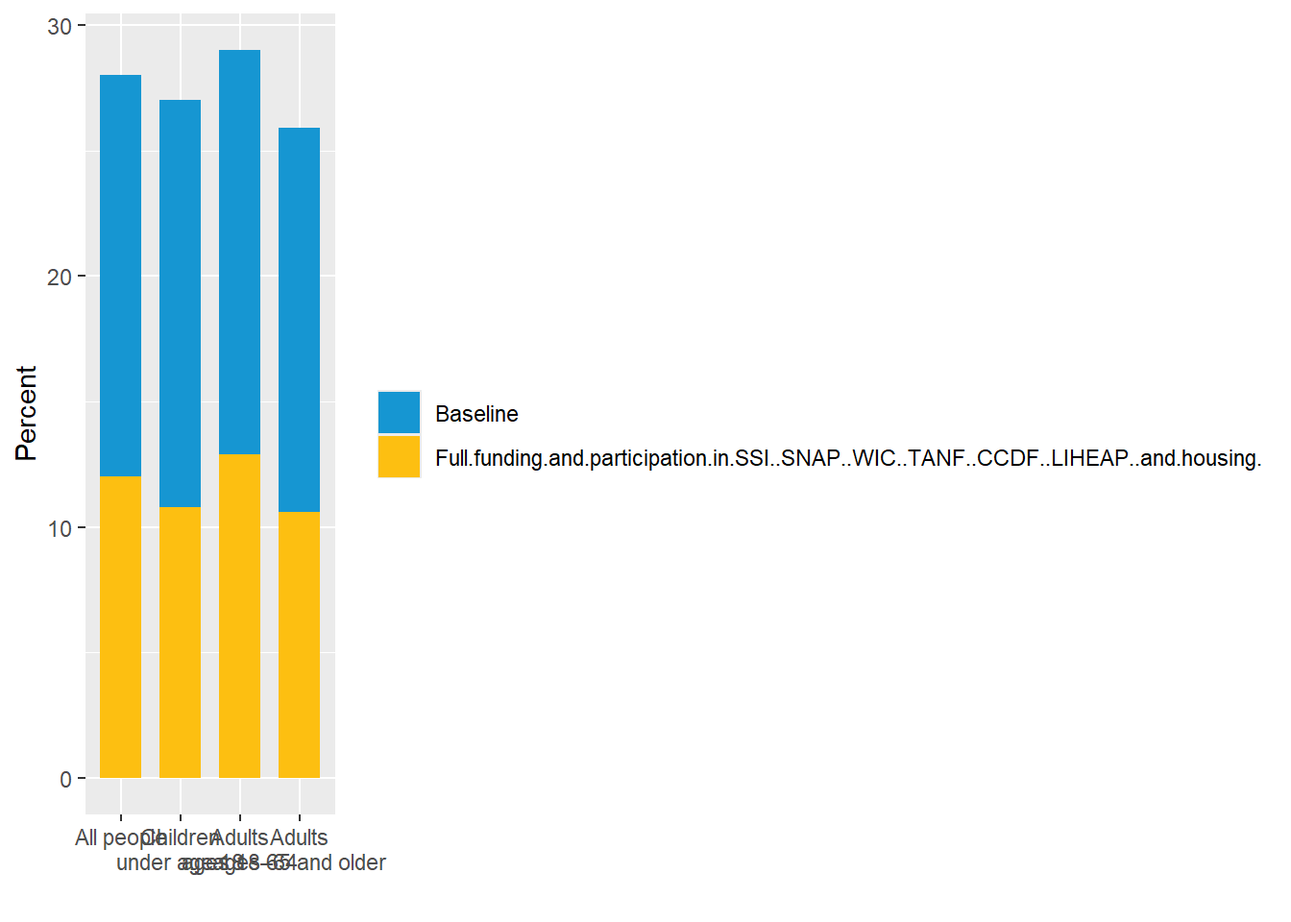
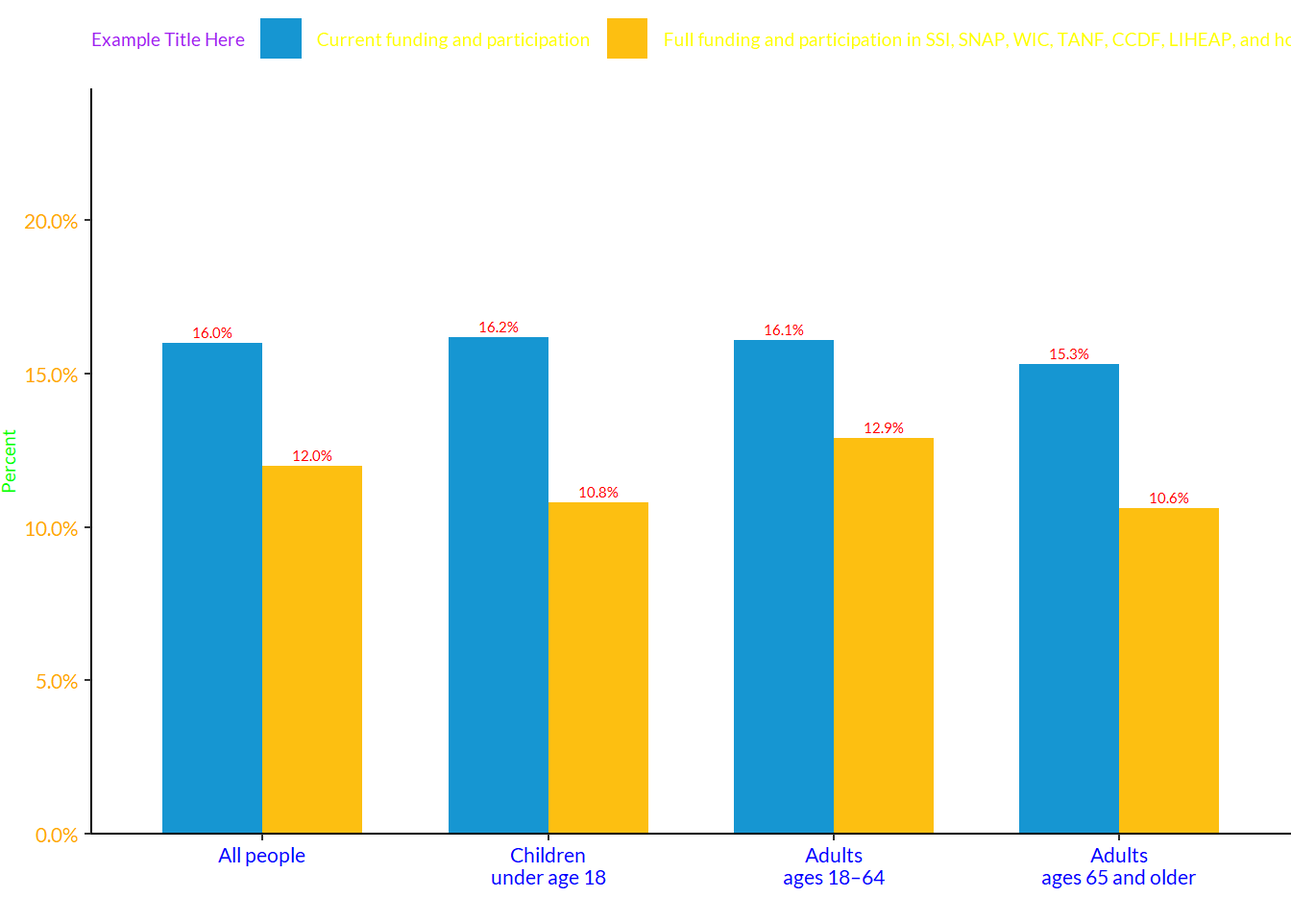
Built site for gh-pages

diff --git a/editing-figures-in-r.html b/editing-figures-in-r.html
@@ -200,12 +200,6 @@ background-size: cover;
 </li>
         <li class="sidebar-item">
   <div class="sidebar-item-container"> 
-  <a href="./editing-in-r-markdown.html" class="sidebar-item-text sidebar-link">
- <span class="menu-text">Editing in R Markdown</span></a>
-  </div>
-</li>
-        <li class="sidebar-item">
-  <div class="sidebar-item-container"> 
   <a href="./editing-zotero-citations-in-r.html" class="sidebar-item-text sidebar-link">
  <span class="menu-text">Editing Zotero Citations in R</span></a>
   </div>
@@ -231,7 +225,6 @@ background-size: cover;
   <li><a href="#opening-the-r-project" id="toc-opening-the-r-project" class="nav-link" data-scroll-target="#opening-the-r-project">Opening the R Project</a></li>
   <li><a href="#what-to-look-for-in-the-file" id="toc-what-to-look-for-in-the-file" class="nav-link" data-scroll-target="#what-to-look-for-in-the-file">What to Look for in the File</a></li>
   <li><a href="#common-changes-to-figures" id="toc-common-changes-to-figures" class="nav-link" data-scroll-target="#common-changes-to-figures">Common Changes to Figures</a></li>
-  <li><a href="#providing-the-researchers-with-an-updated-figure" id="toc-providing-the-researchers-with-an-updated-figure" class="nav-link" data-scroll-target="#providing-the-researchers-with-an-updated-figure">Providing the Researchers with an Updated Figure</a></li>
   </ul></li>
   </ul>
 </nav>
@@ -245,7 +238,7 @@ background-size: cover;
 
 <section id="editing-figures-in-r" class="level1">
 <h1>Editing Figures in R</h1>
-<p>Editing figures in R for Urban style can be done quite easily if you know what to look for. The first step is to ask the researcher for the r files associated with the project in a folder (usually an r project folder). The preferred method is opening a new branch on a GitHub repo. For more information on how to make a new branch on an existing repo, see the <a href="./using-github.html">Using GitHub</a> page. If the researcher only has a local folder saved, you can ask them to send you the zipped project folder via email.</p>
+<p>Editing figures in R for Urban style can be done quite easily if you know what to look for. The first step is to ask the researcher for the R files associated with the project in a folder (usually an R project folder). The preferred method is opening a new branch on a GitHub repo. For more information on how to make a new branch on an existing repo, see the <a href="./using-github.html">Using GitHub</a> page. If the researcher only has a local folder saved, you can ask them to send you the zipped project folder via email.</p>
 <p>Before you begin, make sure the researcher has used the <a href="https://urbaninstitute.github.io/urbnthemes/">urbnthemes ggplot2 package</a> for generating the figures.</p>
 <section id="opening-the-r-project" class="level3">
 <h3 class="anchored" data-anchor-id="opening-the-r-project">Opening the R Project</h3>
@@ -307,7 +300,7 @@ Figure&nbsp;1
 <span id="cb2-2"><a href="#cb2-2"></a>  <span class="fu">geom_bar</span>(<span class="at">stat =</span> <span class="st">"identity"</span>, <span class="at">position =</span> <span class="fu">position_dodge</span>()) <span class="sc">+</span></span>
 <span id="cb2-3"><a href="#cb2-3"></a>  <span class="fu">labs</span>(<span class="at">y =</span> <span class="st">"Percent"</span>, <span class="at">x =</span> <span class="st">""</span>, <span class="at">fill =</span> <span class="st">""</span>) <span class="sc">+</span></span>
 <span id="cb2-4"><a href="#cb2-4"></a>  <span class="fu">scale_fill_discrete</span>(<span class="at">labels =</span> <span class="fu">c</span>(<span class="st">'Current funding and participation'</span>, </span>
-<span id="cb2-5"><a href="#cb2-5"></a>                                 <span class="st">'Full funding and participation in SSI, SNAP, WIC, TANF, CCDF, LIHEAP, and housing'</span>)) <span class="sc">+</span></span>
+<span id="cb2-5"><a href="#cb2-5"></a>  <span class="st">'Full funding and participation in SSI, SNAP, WIC, TANF, CCDF, LIHEAP, and housing'</span>)) <span class="sc">+</span></span>
 <span id="cb2-6"><a href="#cb2-6"></a>  <span class="fu">geom_text</span>(<span class="fu">aes</span>(<span class="at">label =</span> <span class="fu">decimal_to_percentage</span>(Value)), </span>
 <span id="cb2-7"><a href="#cb2-7"></a>            <span class="at">vjust =</span> <span class="sc">-</span><span class="fl">0.5</span>, </span>
 <span id="cb2-8"><a href="#cb2-8"></a>            <span class="at">position =</span> <span class="fu">position_dodge2</span>(<span class="at">width =</span> <span class="fl">0.7</span>, <span class="at">padding =</span> <span class="fl">0.5</span>),</span>
@@ -349,17 +342,13 @@ Figure&nbsp;1
 <p>Below you will find common changes for figures and how to make those changes.</p>
 <section id="capitalization-and-hypenation-changes-in-data-labels-legend-text-and-axis-text" class="level4">
 <h4 class="anchored" data-anchor-id="capitalization-and-hypenation-changes-in-data-labels-legend-text-and-axis-text">Capitalization and hypenation changes in data labels, legend text, and axis text</h4>
-<p>To change capitalization, hyphenation, or other text changes in legend and axis text, look at the example code again, this time with the proper text highlighted.</p>
-<div class="tabset-margin-container"></div><div class="panel-tabset">
-<ul class="nav nav-tabs" role="tablist"><li class="nav-item" role="presentation"><a class="nav-link active" id="tabset-3-1-tab" data-bs-toggle="tab" data-bs-target="#tabset-3-1" role="tab" aria-controls="tabset-3-1" aria-selected="true">Legend text</a></li><li class="nav-item" role="presentation"><a class="nav-link" id="tabset-3-2-tab" data-bs-toggle="tab" data-bs-target="#tabset-3-2" role="tab" aria-controls="tabset-3-2" aria-selected="false">Figure 2</a></li></ul>
-<div class="tab-content">
-<div id="tabset-3-1" class="tab-pane active" role="tabpanel" aria-labelledby="tabset-3-1-tab">
-<div class="cell" data-source-line-numbers="2,6-7">
-<div class="sourceCode cell-code" id="cb4" data-source-line-numbers="2,6-7" data-code-line-numbers="2,6-7"><pre class="sourceCode numberSource r code-overflow-scroll number-lines code-with-copy"><code class="sourceCode r"><span id="cb4-1"><a href="#cb4-1"></a><span class="fu">ggplot</span>(df_fig2_long, <span class="fu">aes</span>(<span class="at">x =</span> Category, <span class="at">y =</span> Value, <span class="at">fill =</span> Series)) <span class="sc">+</span></span>
+<p>To change capitalization, hyphenation, or other text changes in legend and axis text, look at the example code again, this time with the relevant text highlighted. If some of the chart text gets pulled in from the dataset itself, ask the researchers to make the required changes.</p>
+<div class="cell" data-source-line-numbers="3-5">
+<div class="sourceCode cell-code" id="cb4" data-source-line-numbers="3-5" data-code-line-numbers="3-5"><pre class="sourceCode numberSource r code-overflow-scroll number-lines code-with-copy"><code class="sourceCode r"><span id="cb4-1"><a href="#cb4-1"></a><span class="fu">ggplot</span>(df_fig2_long, <span class="fu">aes</span>(<span class="at">x =</span> Category, <span class="at">y =</span> Value, <span class="at">fill =</span> Series)) <span class="sc">+</span></span>
 <span id="cb4-2"><a href="#cb4-2"></a>  <span class="fu">geom_bar</span>(<span class="at">stat =</span> <span class="st">"identity"</span>, <span class="at">position =</span> <span class="fu">position_dodge</span>()) <span class="sc">+</span></span>
 <span id="cb4-3"><a href="#cb4-3"></a>  <span class="fu">labs</span>(<span class="at">y =</span> <span class="st">"Percent"</span>, <span class="at">x =</span> <span class="st">""</span>, <span class="at">fill =</span> <span class="st">""</span>) <span class="sc">+</span></span>
 <span id="cb4-4"><a href="#cb4-4"></a>  <span class="fu">scale_fill_discrete</span>(<span class="at">labels =</span> <span class="fu">c</span>(<span class="st">'Current funding and participation'</span>, </span>
-<span id="cb4-5"><a href="#cb4-5"></a>                                 <span class="st">'Full funding and participation in SSI, SNAP, WIC, TANF, CCDF, LIHEAP, and housing'</span>)) <span class="sc">+</span></span>
+<span id="cb4-5"><a href="#cb4-5"></a>  <span class="st">'Full funding and participation in SSI, SNAP, WIC, TANF, CCDF, LIHEAP, and housing'</span>)) <span class="sc">+</span></span>
 <span id="cb4-6"><a href="#cb4-6"></a>  <span class="fu">geom_text</span>(<span class="fu">aes</span>(<span class="at">label =</span> <span class="fu">decimal_to_percentage</span>(Value)), </span>
 <span id="cb4-7"><a href="#cb4-7"></a>            <span class="at">vjust =</span> <span class="sc">-</span><span class="fl">0.5</span>, </span>
 <span id="cb4-8"><a href="#cb4-8"></a>            <span class="at">position =</span> <span class="fu">position_dodge2</span>(<span class="at">width =</span> <span class="fl">0.7</span>, <span class="at">padding =</span> <span class="fl">0.5</span>),</span>
@@ -385,6 +374,47 @@ Figure&nbsp;1
 <span id="cb4-28"><a href="#cb4-28"></a>        <span class="at">axis.line =</span> <span class="fu">element_line</span>(<span class="at">colour =</span> <span class="st">"black"</span>)) <span class="sc">+</span></span>
 <span id="cb4-29"><a href="#cb4-29"></a>  <span class="fu">guides</span>(<span class="at">fill =</span> <span class="fu">guide_legend</span>(<span class="at">title =</span> <span class="st">""</span>))</span></code><button title="Copy to Clipboard" class="code-copy-button"><i class="bi"></i></button></pre></div>
 </div>
+<p>You can change the text for <code>labs(y = “Y AXIS LABEL HERE”, x = “X AXIS LABEL HERE”, fill = ““)</code> and <code>labels = c(”SERIES 1 LABEL”, “SERIES 2 LABEL”)</code></p>
+</section>
+<section id="color-and-position-changes-for-chart-text" class="level4">
+<h4 class="anchored" data-anchor-id="color-and-position-changes-for-chart-text">Color and position changes for chart text</h4>
+<p>Highlighted below are lines of code associated with data labels and axis text. If you need to change the styling of those, look for similar lines of code. The text has been converted to different colors to make the changes more apparent. You can also use hex codes in place of colors (especially useful for Urban-sepcific colors) like this <code>“#1696d2”</code>. Notice in the same lines of code, you can change the font style and font size.</p>
+<p>Also notice that the last line of code is highlighted to show the addition of a legend title.</p>
+<div class="tabset-margin-container"></div><div class="panel-tabset">
+<ul class="nav nav-tabs" role="tablist"><li class="nav-item" role="presentation"><a class="nav-link active" id="tabset-3-1-tab" data-bs-toggle="tab" data-bs-target="#tabset-3-1" role="tab" aria-controls="tabset-3-1" aria-selected="true">Code</a></li><li class="nav-item" role="presentation"><a class="nav-link" id="tabset-3-2-tab" data-bs-toggle="tab" data-bs-target="#tabset-3-2" role="tab" aria-controls="tabset-3-2" aria-selected="false">Figure</a></li></ul>
+<div class="tab-content">
+<div id="tabset-3-1" class="tab-pane active" role="tabpanel" aria-labelledby="tabset-3-1-tab">
+<div class="cell" data-source-line-numbers="9-11,20-24,29">
+<div class="sourceCode cell-code" id="cb5" data-source-line-numbers="9-11,20-24,29" data-code-line-numbers="9-11,20-24,29"><pre class="sourceCode numberSource r code-overflow-scroll number-lines code-with-copy"><code class="sourceCode r"><span id="cb5-1"><a href="#cb5-1"></a><span class="fu">ggplot</span>(df_fig2_long, <span class="fu">aes</span>(<span class="at">x =</span> Category, <span class="at">y =</span> Value, <span class="at">fill =</span> Series)) <span class="sc">+</span></span>
+<span id="cb5-2"><a href="#cb5-2"></a>  <span class="fu">geom_bar</span>(<span class="at">stat =</span> <span class="st">"identity"</span>, <span class="at">position =</span> <span class="fu">position_dodge</span>()) <span class="sc">+</span></span>
+<span id="cb5-3"><a href="#cb5-3"></a>  <span class="fu">labs</span>(<span class="at">y =</span> <span class="st">"Percent"</span>, <span class="at">x =</span> <span class="st">""</span>, <span class="at">fill =</span> <span class="st">""</span>) <span class="sc">+</span></span>
+<span id="cb5-4"><a href="#cb5-4"></a>  <span class="fu">scale_fill_discrete</span>(<span class="at">labels =</span> <span class="fu">c</span>(<span class="st">'Current funding and participation'</span>, </span>
+<span id="cb5-5"><a href="#cb5-5"></a>  <span class="st">'Full funding and participation in SSI, SNAP, WIC, TANF, CCDF, LIHEAP, and housing'</span>)) <span class="sc">+</span></span>
+<span id="cb5-6"><a href="#cb5-6"></a>  <span class="fu">geom_text</span>(<span class="fu">aes</span>(<span class="at">label =</span> <span class="fu">decimal_to_percentage</span>(Value)), </span>
+<span id="cb5-7"><a href="#cb5-7"></a>            <span class="at">vjust =</span> <span class="sc">-</span><span class="fl">0.5</span>, </span>
+<span id="cb5-8"><a href="#cb5-8"></a>            <span class="at">position =</span> <span class="fu">position_dodge2</span>(<span class="at">width =</span> <span class="fl">0.7</span>, <span class="at">padding =</span> <span class="fl">0.5</span>),</span>
+<span id="cb5-9"><a href="#cb5-9"></a>            <span class="at">size =</span> <span class="dv">5</span>,</span>
+<span id="cb5-10"><a href="#cb5-10"></a>            <span class="at">color =</span> <span class="st">"red"</span>, </span>
+<span id="cb5-11"><a href="#cb5-11"></a>            <span class="at">family =</span> <span class="st">"Lato"</span>) <span class="sc">+</span></span>
+<span id="cb5-12"><a href="#cb5-12"></a>  <span class="fu">scale_y_continuous</span>(<span class="at">expand =</span> <span class="fu">expansion</span>(<span class="at">mult =</span> <span class="dv">0</span>), </span>
+<span id="cb5-13"><a href="#cb5-13"></a>                     <span class="at">limits =</span> <span class="fu">c</span>(<span class="dv">0</span>, <span class="fu">max</span>(df_fig2_long<span class="sc">$</span>Value) <span class="sc">*</span> <span class="fl">1.5</span>), </span>
+<span id="cb5-14"><a href="#cb5-14"></a>                     <span class="at">labels =</span> decimal_to_percentage) <span class="sc">+</span></span>
+<span id="cb5-15"><a href="#cb5-15"></a>  <span class="fu">theme_bw</span>() <span class="sc">+</span></span>
+<span id="cb5-16"><a href="#cb5-16"></a>  <span class="fu">theme</span>(<span class="at">legend.position =</span> <span class="st">"top"</span>, </span>
+<span id="cb5-17"><a href="#cb5-17"></a>        <span class="at">legend.justification =</span> <span class="st">"left"</span>, </span>
+<span id="cb5-18"><a href="#cb5-18"></a>        <span class="at">legend.margin =</span> <span class="fu">margin</span>(<span class="at">t =</span> <span class="sc">-</span><span class="dv">8</span>), </span>
+<span id="cb5-19"><a href="#cb5-19"></a>        <span class="at">plot.margin =</span> <span class="fu">unit</span>(<span class="fu">c</span>(<span class="dv">1</span>, <span class="dv">0</span>, <span class="dv">0</span>, <span class="dv">0</span>), <span class="st">"lines"</span>), </span>
+<span id="cb5-20"><a href="#cb5-20"></a>        <span class="at">axis.title.y =</span> <span class="fu">element_text</span>(<span class="at">size =</span> <span class="dv">7</span>, <span class="at">family =</span> <span class="st">"Lato"</span>, <span class="at">colour =</span> <span class="st">"green"</span>), </span>
+<span id="cb5-21"><a href="#cb5-21"></a>        <span class="at">axis.text.x =</span> <span class="fu">element_text</span>(<span class="at">size =</span> <span class="dv">8</span>, <span class="at">family =</span> <span class="st">"Lato"</span>, <span class="at">colour =</span> <span class="st">"blue"</span>), </span>
+<span id="cb5-22"><a href="#cb5-22"></a>        <span class="at">axis.text.y =</span> <span class="fu">element_text</span>(<span class="at">size =</span> <span class="dv">8</span>, <span class="at">family =</span> <span class="st">"Lato"</span>, <span class="at">colour =</span> <span class="st">"orange"</span>), </span>
+<span id="cb5-23"><a href="#cb5-23"></a>        <span class="at">legend.text =</span> <span class="fu">element_text</span>(<span class="at">size =</span> <span class="dv">7</span>, <span class="at">family =</span> <span class="st">"Lato"</span>, <span class="at">colour =</span> <span class="st">"yellow"</span>), </span>
+<span id="cb5-24"><a href="#cb5-24"></a>        <span class="at">legend.title =</span> <span class="fu">element_text</span>(<span class="at">size =</span> <span class="dv">7</span>, <span class="at">family =</span> <span class="st">"Lato"</span>, <span class="at">colour =</span> <span class="st">"purple"</span>), </span>
+<span id="cb5-25"><a href="#cb5-25"></a>        <span class="at">panel.border =</span> <span class="fu">element_blank</span>(), </span>
+<span id="cb5-26"><a href="#cb5-26"></a>        <span class="at">panel.grid.major =</span> <span class="fu">element_blank</span>(),</span>
+<span id="cb5-27"><a href="#cb5-27"></a>        <span class="at">panel.grid.minor =</span> <span class="fu">element_blank</span>(), </span>
+<span id="cb5-28"><a href="#cb5-28"></a>        <span class="at">axis.line =</span> <span class="fu">element_line</span>(<span class="at">colour =</span> <span class="st">"black"</span>)) <span class="sc">+</span></span>
+<span id="cb5-29"><a href="#cb5-29"></a>  <span class="fu">guides</span>(<span class="at">fill =</span> <span class="fu">guide_legend</span>(<span class="at">title =</span> <span class="st">"Example Title Here"</span>))</span></code><button title="Copy to Clipboard" class="code-copy-button"><i class="bi"></i></button></pre></div>
+</div>
 </div>
 <div id="tabset-3-2" class="tab-pane" role="tabpanel" aria-labelledby="tabset-3-2-tab">
 <div class="cell">
@@ -399,27 +429,125 @@ Figure&nbsp;1
 </div>
 </div>
 </div>
+<p>Below you will see how to make positional changes to the charts. More information about the specifics of text labels can be found in <a href="https://ggplot2-book.org/annotations#sec-text-labels">ggplot2’s documentation</a>. Below I’ve adjusted the original numbers to show how changes affect the text.</p>
+<p>Note that <code>vjust</code> numbers are counterintuitive. A negative number moves the label up, and a positive number moves the label down.</p>
+<p>Also note that <code>plot.margin</code> increases or decreases the margin around the whole plot, which is not to be confused with <code>legend.margin</code>, which changes the margin of the legend only.</p>
+<div class="tabset-margin-container"></div><div class="panel-tabset">
+<ul class="nav nav-tabs" role="tablist"><li class="nav-item" role="presentation"><a class="nav-link active" id="tabset-4-1-tab" data-bs-toggle="tab" data-bs-target="#tabset-4-1" role="tab" aria-controls="tabset-4-1" aria-selected="true">Code</a></li><li class="nav-item" role="presentation"><a class="nav-link" id="tabset-4-2-tab" data-bs-toggle="tab" data-bs-target="#tabset-4-2" role="tab" aria-controls="tabset-4-2" aria-selected="false">Figure</a></li></ul>
+<div class="tab-content">
+<div id="tabset-4-1" class="tab-pane active" role="tabpanel" aria-labelledby="tabset-4-1-tab">
+<div class="cell" data-source-line-numbers="7,8,16-19">
+<div class="sourceCode cell-code" id="cb6" data-source-line-numbers="7,8,16-19" data-code-line-numbers="7,8,16-19"><pre class="sourceCode numberSource r code-overflow-scroll number-lines code-with-copy"><code class="sourceCode r"><span id="cb6-1"><a href="#cb6-1"></a><span class="fu">ggplot</span>(df_fig2_long, <span class="fu">aes</span>(<span class="at">x =</span> Category, <span class="at">y =</span> Value, <span class="at">fill =</span> Series)) <span class="sc">+</span></span>
+<span id="cb6-2"><a href="#cb6-2"></a>  <span class="fu">geom_bar</span>(<span class="at">stat =</span> <span class="st">"identity"</span>, <span class="at">position =</span> <span class="fu">position_dodge</span>()) <span class="sc">+</span></span>
+<span id="cb6-3"><a href="#cb6-3"></a>  <span class="fu">labs</span>(<span class="at">y =</span> <span class="st">"Percent"</span>, <span class="at">x =</span> <span class="st">""</span>, <span class="at">fill =</span> <span class="st">""</span>) <span class="sc">+</span></span>
+<span id="cb6-4"><a href="#cb6-4"></a>  <span class="fu">scale_fill_discrete</span>(<span class="at">labels =</span> <span class="fu">c</span>(<span class="st">'Current funding and participation'</span>, </span>
+<span id="cb6-5"><a href="#cb6-5"></a>  <span class="st">'Full funding and participation in SSI, SNAP, WIC, TANF, CCDF, LIHEAP, and housing'</span>)) <span class="sc">+</span></span>
+<span id="cb6-6"><a href="#cb6-6"></a>  <span class="fu">geom_text</span>(<span class="fu">aes</span>(<span class="at">label =</span> <span class="fu">decimal_to_percentage</span>(Value)), </span>
+<span id="cb6-7"><a href="#cb6-7"></a>            <span class="at">vjust =</span> <span class="sc">-</span><span class="dv">2</span>, </span>
+<span id="cb6-8"><a href="#cb6-8"></a>            <span class="at">position =</span> <span class="fu">identity</span>(),</span>
+<span id="cb6-9"><a href="#cb6-9"></a>            <span class="at">size =</span> <span class="dv">5</span>,</span>
+<span id="cb6-10"><a href="#cb6-10"></a>            <span class="at">color =</span> <span class="st">"red"</span>, </span>
+<span id="cb6-11"><a href="#cb6-11"></a>            <span class="at">family =</span> <span class="st">"Lato"</span>) <span class="sc">+</span></span>
+<span id="cb6-12"><a href="#cb6-12"></a>  <span class="fu">scale_y_continuous</span>(<span class="at">expand =</span> <span class="fu">expansion</span>(<span class="at">mult =</span> <span class="dv">0</span>), </span>
+<span id="cb6-13"><a href="#cb6-13"></a>                     <span class="at">limits =</span> <span class="fu">c</span>(<span class="dv">0</span>, <span class="fu">max</span>(df_fig2_long<span class="sc">$</span>Value) <span class="sc">*</span> <span class="fl">1.5</span>), </span>
+<span id="cb6-14"><a href="#cb6-14"></a>                     <span class="at">labels =</span> decimal_to_percentage) <span class="sc">+</span></span>
+<span id="cb6-15"><a href="#cb6-15"></a>  <span class="fu">theme_bw</span>() <span class="sc">+</span></span>
+<span id="cb6-16"><a href="#cb6-16"></a>  <span class="fu">theme</span>(<span class="at">legend.position =</span> <span class="st">"bottom"</span>, </span>
+<span id="cb6-17"><a href="#cb6-17"></a>        <span class="at">legend.justification =</span> <span class="st">"right"</span>, </span>
+<span id="cb6-18"><a href="#cb6-18"></a>        <span class="at">legend.margin =</span> <span class="fu">margin</span>(<span class="at">t =</span> <span class="dv">8</span>), </span>
+<span id="cb6-19"><a href="#cb6-19"></a>        <span class="at">plot.margin =</span> <span class="fu">unit</span>(<span class="fu">c</span>(<span class="dv">2</span>, <span class="dv">2</span>, <span class="dv">2</span>, <span class="dv">2</span>), <span class="st">"lines"</span>), </span>
+<span id="cb6-20"><a href="#cb6-20"></a>        <span class="at">axis.title.y =</span> <span class="fu">element_text</span>(<span class="at">size =</span> <span class="dv">7</span>, <span class="at">family =</span> <span class="st">"Lato"</span>, <span class="at">colour =</span> <span class="st">"green"</span>), </span>
+<span id="cb6-21"><a href="#cb6-21"></a>        <span class="at">axis.text.x =</span> <span class="fu">element_text</span>(<span class="at">size =</span> <span class="dv">8</span>, <span class="at">family =</span> <span class="st">"Lato"</span>, <span class="at">colour =</span> <span class="st">"blue"</span>), </span>
+<span id="cb6-22"><a href="#cb6-22"></a>        <span class="at">axis.text.y =</span> <span class="fu">element_text</span>(<span class="at">size =</span> <span class="dv">8</span>, <span class="at">family =</span> <span class="st">"Lato"</span>, <span class="at">colour =</span> <span class="st">"orange"</span>), </span>
+<span id="cb6-23"><a href="#cb6-23"></a>        <span class="at">legend.text =</span> <span class="fu">element_text</span>(<span class="at">size =</span> <span class="dv">7</span>, <span class="at">family =</span> <span class="st">"Lato"</span>, <span class="at">colour =</span> <span class="st">"yellow"</span>), </span>
+<span id="cb6-24"><a href="#cb6-24"></a>        <span class="at">legend.title =</span> <span class="fu">element_text</span>(<span class="at">size =</span> <span class="dv">7</span>, <span class="at">family =</span> <span class="st">"Lato"</span>, <span class="at">colour =</span> <span class="st">"purple"</span>), </span>
+<span id="cb6-25"><a href="#cb6-25"></a>        <span class="at">panel.border =</span> <span class="fu">element_blank</span>(), </span>
+<span id="cb6-26"><a href="#cb6-26"></a>        <span class="at">panel.grid.major =</span> <span class="fu">element_blank</span>(),</span>
+<span id="cb6-27"><a href="#cb6-27"></a>        <span class="at">panel.grid.minor =</span> <span class="fu">element_blank</span>(), </span>
+<span id="cb6-28"><a href="#cb6-28"></a>        <span class="at">axis.line =</span> <span class="fu">element_line</span>(<span class="at">colour =</span> <span class="st">"black"</span>)) <span class="sc">+</span></span>
+<span id="cb6-29"><a href="#cb6-29"></a>  <span class="fu">guides</span>(<span class="at">fill =</span> <span class="fu">guide_legend</span>(<span class="at">title =</span> <span class="st">""</span>))</span></code><button title="Copy to Clipboard" class="code-copy-button"><i class="bi"></i></button></pre></div>
+</div>
+</div>
+<div id="tabset-4-2" class="tab-pane" role="tabpanel" aria-labelledby="tabset-4-2-tab">
+<div class="cell">
+<div class="cell-output-display">
+<div>
+<figure class="figure">
+<p><img src="editing-figures-in-r_files/figure-html/ggplot-chart-legend-3-1.png" class="img-fluid figure-img" width="672"></p>
+</figure>
+</div>
+</div>
+</div>
+</div>
+</div>
+</div>
 </section>
-<section id="color-changes-for-data-labels-legend-text-and-axis-text" class="level4">
-<h4 class="anchored" data-anchor-id="color-changes-for-data-labels-legend-text-and-axis-text">Color changes for data labels, legend text, and axis text</h4>
-<p>To change data labels,</p>
+<section id="axes-and-grid-lines" class="level4">
+<h4 class="anchored" data-anchor-id="axes-and-grid-lines">Axes and grid lines</h4>
+<p>See the code below to change the axis positioning. In this example, the changes are being made relative to the y axis using <code>scale_y_continuous</code>, but the same principles apply to the x axis using <code>scale_x_continuous</code>.</p>
+<p>The example below also shows the default values for the chart (as if no parameters were set). The original chart at the top with the correct parameters set uses <code>max(df_fig2_long$Value) * 1.5</code> to provide head space above the bars in the chart. In the example below, <code>expand = expansion(mult = 0)</code> has been removed, which is why the bars look like they are floating. See documentation on ggplot2 expansion parameters <a href="https://ggplot2.tidyverse.org/reference/expansion.html">here</a>.</p>
+<p>See the panel and axis parameters at the end of the code block. <code>element_blank()</code> has been changed to <code>element_rect()</code> to show the differences, and <code>axis.line</code> has been changed to <code>element_blank()</code>.</p>
+<p>Lastly, see line 15. <code>theme_bw()</code> ensures there is no background color for the chart. If there’s a gray background, most likely the code is missing this line.</p>
+<div class="tabset-margin-container"></div><div class="panel-tabset">
+<ul class="nav nav-tabs" role="tablist"><li class="nav-item" role="presentation"><a class="nav-link active" id="tabset-5-1-tab" data-bs-toggle="tab" data-bs-target="#tabset-5-1" role="tab" aria-controls="tabset-5-1" aria-selected="true">Code</a></li><li class="nav-item" role="presentation"><a class="nav-link" id="tabset-5-2-tab" data-bs-toggle="tab" data-bs-target="#tabset-5-2" role="tab" aria-controls="tabset-5-2" aria-selected="false">Figure</a></li></ul>
+<div class="tab-content">
+<div id="tabset-5-1" class="tab-pane active" role="tabpanel" aria-labelledby="tabset-5-1-tab">
+<div class="cell" data-source-line-numbers="12-15,25-28">
+<div class="sourceCode cell-code" id="cb7" data-source-line-numbers="12-15,25-28" data-code-line-numbers="12-15,25-28"><pre class="sourceCode numberSource r code-overflow-scroll number-lines code-with-copy"><code class="sourceCode r"><span id="cb7-1"><a href="#cb7-1"></a><span class="fu">ggplot</span>(df_fig2_long, <span class="fu">aes</span>(<span class="at">x =</span> Category, <span class="at">y =</span> Value, <span class="at">fill =</span> Series)) <span class="sc">+</span></span>
+<span id="cb7-2"><a href="#cb7-2"></a>  <span class="fu">geom_bar</span>(<span class="at">stat =</span> <span class="st">"identity"</span>, <span class="at">position =</span> <span class="fu">position_dodge</span>()) <span class="sc">+</span></span>
+<span id="cb7-3"><a href="#cb7-3"></a>  <span class="fu">labs</span>(<span class="at">y =</span> <span class="st">"Percent"</span>, <span class="at">x =</span> <span class="st">""</span>, <span class="at">fill =</span> <span class="st">""</span>) <span class="sc">+</span></span>
+<span id="cb7-4"><a href="#cb7-4"></a>  <span class="fu">scale_fill_discrete</span>(<span class="at">labels =</span> <span class="fu">c</span>(<span class="st">'Current funding and participation'</span>, </span>
+<span id="cb7-5"><a href="#cb7-5"></a>  <span class="st">'Full funding and participation in SSI, SNAP, WIC, TANF, CCDF, LIHEAP, and housing'</span>)) <span class="sc">+</span></span>
+<span id="cb7-6"><a href="#cb7-6"></a>  <span class="fu">geom_text</span>(<span class="fu">aes</span>(<span class="at">label =</span> <span class="fu">decimal_to_percentage</span>(Value)), </span>
+<span id="cb7-7"><a href="#cb7-7"></a>            <span class="at">vjust =</span> <span class="sc">-</span><span class="fl">0.5</span>, </span>
+<span id="cb7-8"><a href="#cb7-8"></a>            <span class="at">position =</span> <span class="fu">position_dodge2</span>(<span class="at">width =</span> <span class="fl">0.7</span>, <span class="at">padding =</span> <span class="fl">0.5</span>),</span>
+<span id="cb7-9"><a href="#cb7-9"></a>            <span class="at">size =</span> <span class="dv">5</span>,</span>
+<span id="cb7-10"><a href="#cb7-10"></a>            <span class="at">color =</span> <span class="st">"red"</span>, </span>
+<span id="cb7-11"><a href="#cb7-11"></a>            <span class="at">family =</span> <span class="st">"Lato"</span>) <span class="sc">+</span></span>
+<span id="cb7-12"><a href="#cb7-12"></a>  <span class="fu">scale_y_continuous</span>(<span class="at">expand =</span> <span class="fu">expansion</span>(<span class="at">mult =</span> <span class="dv">0</span>),</span>
+<span id="cb7-13"><a href="#cb7-13"></a>                     <span class="at">limits =</span> <span class="fu">c</span>(<span class="dv">0</span>, <span class="fu">max</span>(df_fig2_long<span class="sc">$</span>Value) <span class="sc">*</span> <span class="fl">1.5</span>), </span>
+<span id="cb7-14"><a href="#cb7-14"></a>                     <span class="at">labels =</span> decimal_to_percentage) <span class="sc">+</span></span>
+<span id="cb7-15"><a href="#cb7-15"></a>  <span class="fu">theme_bw</span>() <span class="sc">+</span></span>
+<span id="cb7-16"><a href="#cb7-16"></a>  <span class="fu">theme</span>(<span class="at">legend.position =</span> <span class="st">"top"</span>, </span>
+<span id="cb7-17"><a href="#cb7-17"></a>        <span class="at">legend.justification =</span> <span class="st">"left"</span>, </span>
+<span id="cb7-18"><a href="#cb7-18"></a>        <span class="at">legend.margin =</span> <span class="fu">margin</span>(<span class="at">t =</span> <span class="sc">-</span><span class="dv">8</span>), </span>
+<span id="cb7-19"><a href="#cb7-19"></a>        <span class="at">plot.margin =</span> <span class="fu">unit</span>(<span class="fu">c</span>(<span class="dv">1</span>, <span class="dv">0</span>, <span class="dv">0</span>, <span class="dv">0</span>), <span class="st">"lines"</span>), </span>
+<span id="cb7-20"><a href="#cb7-20"></a>        <span class="at">axis.title.y =</span> <span class="fu">element_text</span>(<span class="at">size =</span> <span class="dv">7</span>, <span class="at">family =</span> <span class="st">"Lato"</span>, <span class="at">colour =</span> <span class="st">"black"</span>), </span>
+<span id="cb7-21"><a href="#cb7-21"></a>        <span class="at">axis.text.x =</span> <span class="fu">element_text</span>(<span class="at">size =</span> <span class="dv">8</span>, <span class="at">family =</span> <span class="st">"Lato"</span>, <span class="at">colour =</span> <span class="st">"black"</span>), </span>
+<span id="cb7-22"><a href="#cb7-22"></a>        <span class="at">axis.text.y =</span> <span class="fu">element_text</span>(<span class="at">size =</span> <span class="dv">8</span>, <span class="at">family =</span> <span class="st">"Lato"</span>, <span class="at">colour =</span> <span class="st">"black"</span>), </span>
+<span id="cb7-23"><a href="#cb7-23"></a>        <span class="at">legend.text =</span> <span class="fu">element_text</span>(<span class="at">size =</span> <span class="dv">7</span>, <span class="at">family =</span> <span class="st">"Lato"</span>, <span class="at">colour =</span> <span class="st">"black"</span>), </span>
+<span id="cb7-24"><a href="#cb7-24"></a>        <span class="at">legend.title =</span> <span class="fu">element_text</span>(<span class="at">size =</span> <span class="dv">7</span>, <span class="at">family =</span> <span class="st">"Lato"</span>, <span class="at">colour =</span> <span class="st">"black"</span>), </span>
+<span id="cb7-25"><a href="#cb7-25"></a>        <span class="at">panel.border =</span> <span class="fu">element_rect</span>(<span class="at">colour =</span> <span class="st">"red"</span>), </span>
+<span id="cb7-26"><a href="#cb7-26"></a>        <span class="at">panel.grid.major =</span> <span class="fu">element_line</span>(<span class="at">colour =</span> <span class="st">"blue"</span>),</span>
+<span id="cb7-27"><a href="#cb7-27"></a>        <span class="at">panel.grid.minor =</span> <span class="fu">element_line</span>(<span class="at">colour =</span> <span class="st">"green"</span>), </span>
+<span id="cb7-28"><a href="#cb7-28"></a>        <span class="at">axis.line =</span> <span class="fu">element_blank</span>()) <span class="sc">+</span></span>
+<span id="cb7-29"><a href="#cb7-29"></a>  <span class="fu">guides</span>(<span class="at">fill =</span> <span class="fu">guide_legend</span>(<span class="at">title =</span> <span class="st">""</span>))</span></code><button title="Copy to Clipboard" class="code-copy-button"><i class="bi"></i></button></pre></div>
+</div>
+</div>
+<div id="tabset-5-2" class="tab-pane" role="tabpanel" aria-labelledby="tabset-5-2-tab">
+<div class="cell">
+<div class="cell-output-display">
+<div>
+<figure class="figure">
+<p><img src="editing-figures-in-r_files/figure-html/ggplot-chart-legend-4-1.png" class="img-fluid figure-img" width="672"></p>
+</figure>
+</div>
+</div>
+</div>
+</div>
+</div>
+</div>
 </section>
 <section id="low-quality-exported-images" class="level4">
 <h4 class="anchored" data-anchor-id="low-quality-exported-images">Low-quality exported images</h4>
-<p>If the images in a report generated in R are not high-enough quality for print publications, you can change the parameters by using the following code:</p>
-</section>
-<section id="positioning-of-legend" class="level4">
-<h4 class="anchored" data-anchor-id="positioning-of-legend">Positioning of legend</h4>
-</section>
-<section id="removing-grid-lines" class="level4">
-<h4 class="anchored" data-anchor-id="removing-grid-lines">Removing grid lines</h4>
-</section>
-</section>
-<section id="providing-the-researchers-with-an-updated-figure" class="level3">
-<h3 class="anchored" data-anchor-id="providing-the-researchers-with-an-updated-figure">Providing the Researchers with an Updated Figure</h3>
-<p>One you have made the appropriate changes, you can export the file using the following code. Make sure the resolution is good enough for print publications (the resolution below should work).</p>
+<p>If the images in a report generated in R are not high-enough quality for print publications, you can change the parameters by using the following code underneath the ggplot2 code. Make sure you change the plot name to the correct plot name or use <code>plot = last_plot()</code> instead.</p>
+<p>The image will save in the same folder as the R file you are working in.</p>
+<div class="cell">
+<div class="sourceCode cell-code" id="cb8" data-source-line-numbers="nil" data-code-line-numbers="nil"><pre class="sourceCode r code-overflow-wrap code-with-copy"><code class="sourceCode r"><span id="cb8-1"><a href="#cb8-1" aria-hidden="true" tabindex="-1"></a><span class="fu">ggsave</span>(<span class="st">"plot-name.png"</span>, <span class="at">plot =</span> plot_name, <span class="at">width =</span> <span class="fl">8.25</span>, <span class="at">units =</span> <span class="st">"in"</span>, <span class="at">dpi =</span> <span class="dv">300</span>)</span></code><button title="Copy to Clipboard" class="code-copy-button"><i class="bi"></i></button></pre></div>
+</div>
 
 
+</section>
 </section>
 </section>
 

diff --git a/editing-in-quarto.html b/editing-in-quarto.html
@@ -166,12 +166,6 @@ background-size: cover;
 </li>
         <li class="sidebar-item">
   <div class="sidebar-item-container"> 
-  <a href="./editing-in-r-markdown.html" class="sidebar-item-text sidebar-link">
- <span class="menu-text">Editing in R Markdown</span></a>
-  </div>
-</li>
-        <li class="sidebar-item">
-  <div class="sidebar-item-container"> 
   <a href="./editing-zotero-citations-in-r.html" class="sidebar-item-text sidebar-link">
  <span class="menu-text">Editing Zotero Citations in R</span></a>
   </div>
@@ -192,10 +186,12 @@ background-size: cover;
     <h2 id="toc-title">On this page</h2>
    
   <ul>
-  <li><a href="#editing-in-quarto" id="toc-editing-in-quarto" class="nav-link active" data-scroll-target="#editing-in-quarto">Editing in Quarto</a>
+  <li><a href="#editing-in-quarto-and-rmarkdown" id="toc-editing-in-quarto-and-rmarkdown" class="nav-link active" data-scroll-target="#editing-in-quarto-and-rmarkdown">Editing in Quarto and RMarkdown</a>
   <ul class="collapse">
   <li><a href="#common-quarto-syntax" id="toc-common-quarto-syntax" class="nav-link" data-scroll-target="#common-quarto-syntax">Common Quarto Syntax</a></li>
   <li><a href="#editing-text-in-quarto" id="toc-editing-text-in-quarto" class="nav-link" data-scroll-target="#editing-text-in-quarto">Editing Text in Quarto</a></li>
+  <li><a href="#common-rmarkdown-syntax" id="toc-common-rmarkdown-syntax" class="nav-link" data-scroll-target="#common-rmarkdown-syntax">Common RMarkdown Syntax</a></li>
+  <li><a href="#editing-text-in-rmarkdown" id="toc-editing-text-in-rmarkdown" class="nav-link" data-scroll-target="#editing-text-in-rmarkdown">Editing Text in RMarkdown</a></li>
   </ul></li>
   </ul>
 </nav>
@@ -207,8 +203,8 @@ background-size: cover;
 
 
 
-<section id="editing-in-quarto" class="level1">
-<h1>Editing in Quarto</h1>
+<section id="editing-in-quarto-and-rmarkdown" class="level1">
+<h1>Editing in Quarto and RMarkdown</h1>
 <section id="common-quarto-syntax" class="level3">
 <h3 class="anchored" data-anchor-id="common-quarto-syntax">Common Quarto Syntax</h3>
 </section>
@@ -216,6 +212,15 @@ background-size: cover;
 <h3 class="anchored" data-anchor-id="editing-text-in-quarto">Editing Text in Quarto</h3>
 <section id="how-to-identify-changes-in-github-for-subsequent-edits" class="level4">
 <h4 class="anchored" data-anchor-id="how-to-identify-changes-in-github-for-subsequent-edits">How to Identify Changes in GitHub for Subsequent Edits</h4>
+</section>
+</section>
+<section id="common-rmarkdown-syntax" class="level3">
+<h3 class="anchored" data-anchor-id="common-rmarkdown-syntax">Common RMarkdown Syntax</h3>
+</section>
+<section id="editing-text-in-rmarkdown" class="level3">
+<h3 class="anchored" data-anchor-id="editing-text-in-rmarkdown">Editing Text in RMarkdown</h3>
+<section id="how-to-identify-changes-in-github-for-subsequent-edits-1" class="level4">
+<h4 class="anchored" data-anchor-id="how-to-identify-changes-in-github-for-subsequent-edits-1">How to Identify Changes in GitHub for Subsequent Edits</h4>
 
 
 </section>

diff --git a/editing-zotero-citations-in-r.html b/editing-zotero-citations-in-r.html
@@ -166,12 +166,6 @@ background-size: cover;
 </li>
         <li class="sidebar-item">
   <div class="sidebar-item-container"> 
-  <a href="./editing-in-r-markdown.html" class="sidebar-item-text sidebar-link">
- <span class="menu-text">Editing in R Markdown</span></a>
-  </div>
-</li>
-        <li class="sidebar-item">
-  <div class="sidebar-item-container"> 
   <a href="./editing-zotero-citations-in-r.html" class="sidebar-item-text sidebar-link active">
  <span class="menu-text">Editing Zotero Citations in R</span></a>
   </div>

diff --git a/about.html b/about.html
@@ -166,12 +166,6 @@ background-size: cover;
 </li>
         <li class="sidebar-item">
   <div class="sidebar-item-container"> 
-  <a href="./editing-in-r-markdown.html" class="sidebar-item-text sidebar-link">
- <span class="menu-text">Editing in R Markdown</span></a>
-  </div>
-</li>
-        <li class="sidebar-item">
-  <div class="sidebar-item-container"> 
   <a href="./editing-zotero-citations-in-r.html" class="sidebar-item-text sidebar-link">
  <span class="menu-text">Editing Zotero Citations in R</span></a>
   </div>

diff --git a/editing-in-latex.html b/editing-in-latex.html
@@ -166,12 +166,6 @@ background-size: cover;
 </li>
         <li class="sidebar-item">
   <div class="sidebar-item-container"> 
-  <a href="./editing-in-r-markdown.html" class="sidebar-item-text sidebar-link">
- <span class="menu-text">Editing in R Markdown</span></a>
-  </div>
-</li>
-        <li class="sidebar-item">
-  <div class="sidebar-item-container"> 
   <a href="./editing-zotero-citations-in-r.html" class="sidebar-item-text sidebar-link">
  <span class="menu-text">Editing Zotero Citations in R</span></a>
   </div>

diff --git a/index.html b/index.html
@@ -203,12 +203,6 @@ background-size: cover;
 </li>
         <li class="sidebar-item">
   <div class="sidebar-item-container"> 
-  <a href="./editing-in-r-markdown.html" class="sidebar-item-text sidebar-link">
- <span class="menu-text">Editing in R Markdown</span></a>
-  </div>
-</li>
-        <li class="sidebar-item">
-  <div class="sidebar-item-container"> 
   <a href="./editing-zotero-citations-in-r.html" class="sidebar-item-text sidebar-link">
  <span class="menu-text">Editing Zotero Citations in R</span></a>
   </div>

diff --git a/using-github.html b/using-github.html
@@ -166,12 +166,6 @@ background-size: cover;
 </li>
         <li class="sidebar-item">
   <div class="sidebar-item-container"> 
-  <a href="./editing-in-r-markdown.html" class="sidebar-item-text sidebar-link">
- <span class="menu-text">Editing in R Markdown</span></a>
-  </div>
-</li>
-        <li class="sidebar-item">
-  <div class="sidebar-item-container"> 
   <a href="./editing-zotero-citations-in-r.html" class="sidebar-item-text sidebar-link">
  <span class="menu-text">Editing Zotero Citations in R</span></a>
   </div>
